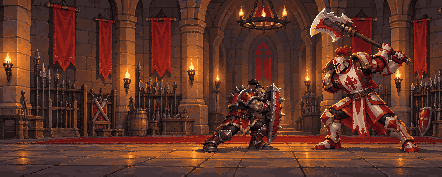
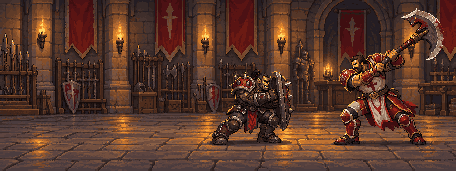
Redraw the Scarlet Monastery scenes at the heroes' scale
The cathedral now has Sally Whitemane by the altar and the armory has
Herod, each fighting a party drawn at the same scale as the hero who
stands beside them (prompts give each race's height as a share of the
picture). A piece can now carry its own constraints, for named bosses.
On narrow screens the hero stands further left, clear of the party.

Claude-Session: https://claude.ai/code/session_01Tzu8QVCVeH6QoQYH1SNF8L

diff --git a/web/css/compare.css b/web/css/compare.css
@@ -358,12 +358,14 @@
   .trial-head { grid-template-columns: minmax(0, 1fr); gap: 0; }
   .trial-btn { grid-template-columns: minmax(0, 1fr) auto; row-gap: var(--s2); }
   .trial-btn .scene { grid-column: 1 / -1; width: 100%; }
+  /* a narrow view: the hero steps left, clear of a party in the middle */
+  .trial-btn .scene .hero { left: calc(8 * var(--art)); }
   /* wider than the art: draw it at twice the size, still whole pixels */
   .trial-btn { container: trial / inline-size; }
   @container trial (min-width: 400px) {
     .scene { --k: 2; height: calc(256 * var(--art)); max-width: calc(780 * var(--art)); justify-self: center; }
     .scene .bg { right: calc(var(--rpad, 0) * -2 * var(--art)); top: calc(var(--top, 40) * -2 * var(--art)); transform: scale(2); transform-origin: top right; }
-    .scene .hero { left: calc(36 * var(--art)); bottom: calc(var(--ground, 16) * 2 * var(--art)); }
+    .trial-btn .scene .hero { left: calc(16 * var(--art)); bottom: calc(var(--ground, 16) * 2 * var(--art)); }
   }
   .trial-text { padding-left: var(--s3); }
   .trial-vals { flex-wrap: wrap; padding: var(--s2) var(--s3) var(--s3); }

diff --git a/web/meta.js b/web/meta.js
@@ -132,10 +132,10 @@ export const SCENES = {
     b30: { both: S1('scene-duel', 'Gurubashi Arena', 34) },
   },
   heal_dungeon: {
-    b30: { alliance: S1('scene-heal_dungeon-b30', 'Scarlet Monastery', 24), horde: S1('scene-heal_dungeon-b30-horde', 'Scarlet Monastery', 17) },
+    b30: { alliance: S1('scene-heal_dungeon-b30', 'Scarlet Monastery', 20, 20), horde: S1('scene-heal_dungeon-b30-horde', 'Scarlet Monastery', 26, 10) },
   },
   heal_tank: {
-    b30: { alliance: S1('scene-heal_tank-b30', 'The Scarlet Monastery armory', 38), horde: S1('scene-heal_tank-b30-horde', 'The Scarlet Monastery armory', 36) },
+    b30: { alliance: S1('scene-heal_tank-b30', 'The Scarlet Monastery armory', 28), horde: S1('scene-heal_tank-b30-horde', 'The Scarlet Monastery armory', 27) },
   },
   heal_raid: {
     b50: { alliance: S1('scene-heal_raid-b50', 'Onyxia’s Lair', 38), horde: S1('scene-heal_raid-b50-horde', 'Onyxia’s Lair', 40) },
